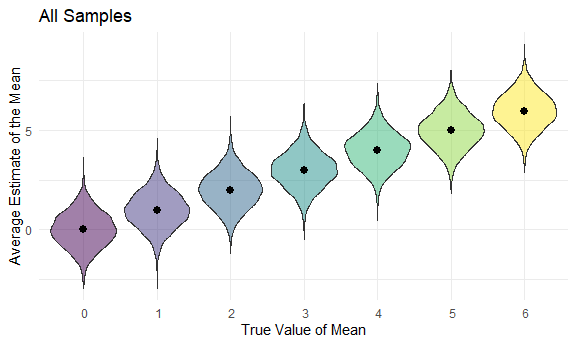
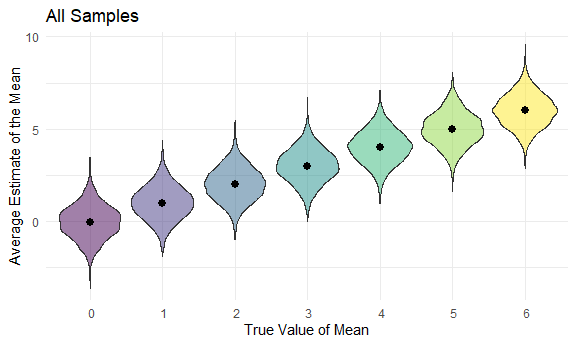
plot for samples which null was rejected

diff --git a/p8105_hw5_sne2114.md b/p8105_hw5_sne2114.md
@@ -531,16 +531,16 @@ sim_results %>%
     ## # A tibble: 5,000 x 2
     ##    estimate p.value
     ##       <dbl>   <dbl>
-    ##  1   0.998    0.253
-    ##  2   1.37     0.123
-    ##  3  -0.682    0.409
-    ##  4  -0.0530   0.944
-    ##  5   1.12     0.261
-    ##  6   0.606    0.421
-    ##  7   0.0201   0.981
-    ##  8  -0.361    0.607
-    ##  9  -0.149    0.886
-    ## 10   1.43     0.103
+    ##  1   0.165    0.862
+    ##  2  -0.652    0.484
+    ##  3  -0.249    0.768
+    ##  4   0.337    0.712
+    ##  5   0.460    0.570
+    ##  6   0.352    0.644
+    ##  7   0.192    0.834
+    ##  8   0.0773   0.925
+    ##  9   1.10     0.220
+    ## 10  -1.29     0.163
     ## # ... with 4,990 more rows
 
 We now repeat for mu = 1,2,3,4,5,6.
@@ -565,22 +565,24 @@ multi_means
     ## # A tibble: 35,000 x 3
     ##    multi_mu estimate p.value
     ##       <dbl>    <dbl>   <dbl>
-    ##  1        0   0.411   0.680 
-    ##  2        0   0.199   0.830 
-    ##  3        0  -1.03    0.174 
-    ##  4        0  -0.0481  0.949 
-    ##  5        0  -0.317   0.670 
-    ##  6        0   0.561   0.493 
-    ##  7        0  -1.61    0.0542
-    ##  8        0   0.454   0.603 
-    ##  9        0  -0.457   0.618 
-    ## 10        0   0.861   0.406 
+    ##  1        0   -0.689 0.466  
+    ##  2        0    0.584 0.542  
+    ##  3        0    0.208 0.838  
+    ##  4        0    0.532 0.567  
+    ##  5        0    0.831 0.451  
+    ##  6        0    0.565 0.592  
+    ##  7        0    0.609 0.484  
+    ##  8        0    1.01  0.280  
+    ##  9        0    0.484 0.599  
+    ## 10        0   -2.94  0.00223
     ## # ... with 34,990 more rows
 
 Plotting the proportion of times a false null hypothesis was rejected
-(power) versus effect size. We can see that effect size is positively
-correlated with power. We begin reaching the max power of 1 starting
-with an effect size of 4.
+(power) versus effect size. We filtered based on p-value \< 0.05 because
+that’s the significance level at which we could reject the null
+hypothesis. We can see that effect size is positively correlated with
+power. We begin reaching the max power of 1 starting with an effect size
+of 4.
 
 ``` r
 multi_means %>%
@@ -601,7 +603,8 @@ multi_means %>%
 
 <img src="p8105_hw5_sne2114_files/figure-gfm/unnamed-chunk-12-1.png" width="90%" />
 
-plot
+Plotting the average estimate of means against the true mean values for
+all samples (whether they rejected the null or not).
 
 ``` r
 all_samples_p = 
@@ -623,3 +626,28 @@ all_samples_p
     ## Warning: Removed 7 rows containing missing values (geom_segment).
 
 <img src="p8105_hw5_sne2114_files/figure-gfm/unnamed-chunk-13-1.png" width="90%" />
+
+Plotting the average estimate of means against the true mean values only
+for samples in which the null hypothesis was rejected (p-value \< 0.05).
+
+``` r
+rej_samples_p = 
+  multi_means %>%
+   mutate(
+    multi_mu = str_c(" ", multi_mu)) %>%
+  filter(p.value < 0.05) %>%
+  ggplot(aes(x = multi_mu, y = estimate, fill = multi_mu)) +
+  geom_violin(alpha = .5) +
+  labs(
+    title = "Samples for which Null was Rejected",
+    x = "True Value of Mean",
+    y = "Average Estimate of the Mean") +
+  theme(legend.position = "none") + 
+  stat_summary(fun = "mean")
+
+rej_samples_p
+```
+
+    ## Warning: Removed 7 rows containing missing values (geom_segment).
+
+<img src="p8105_hw5_sne2114_files/figure-gfm/unnamed-chunk-14-1.png" width="90%" />
